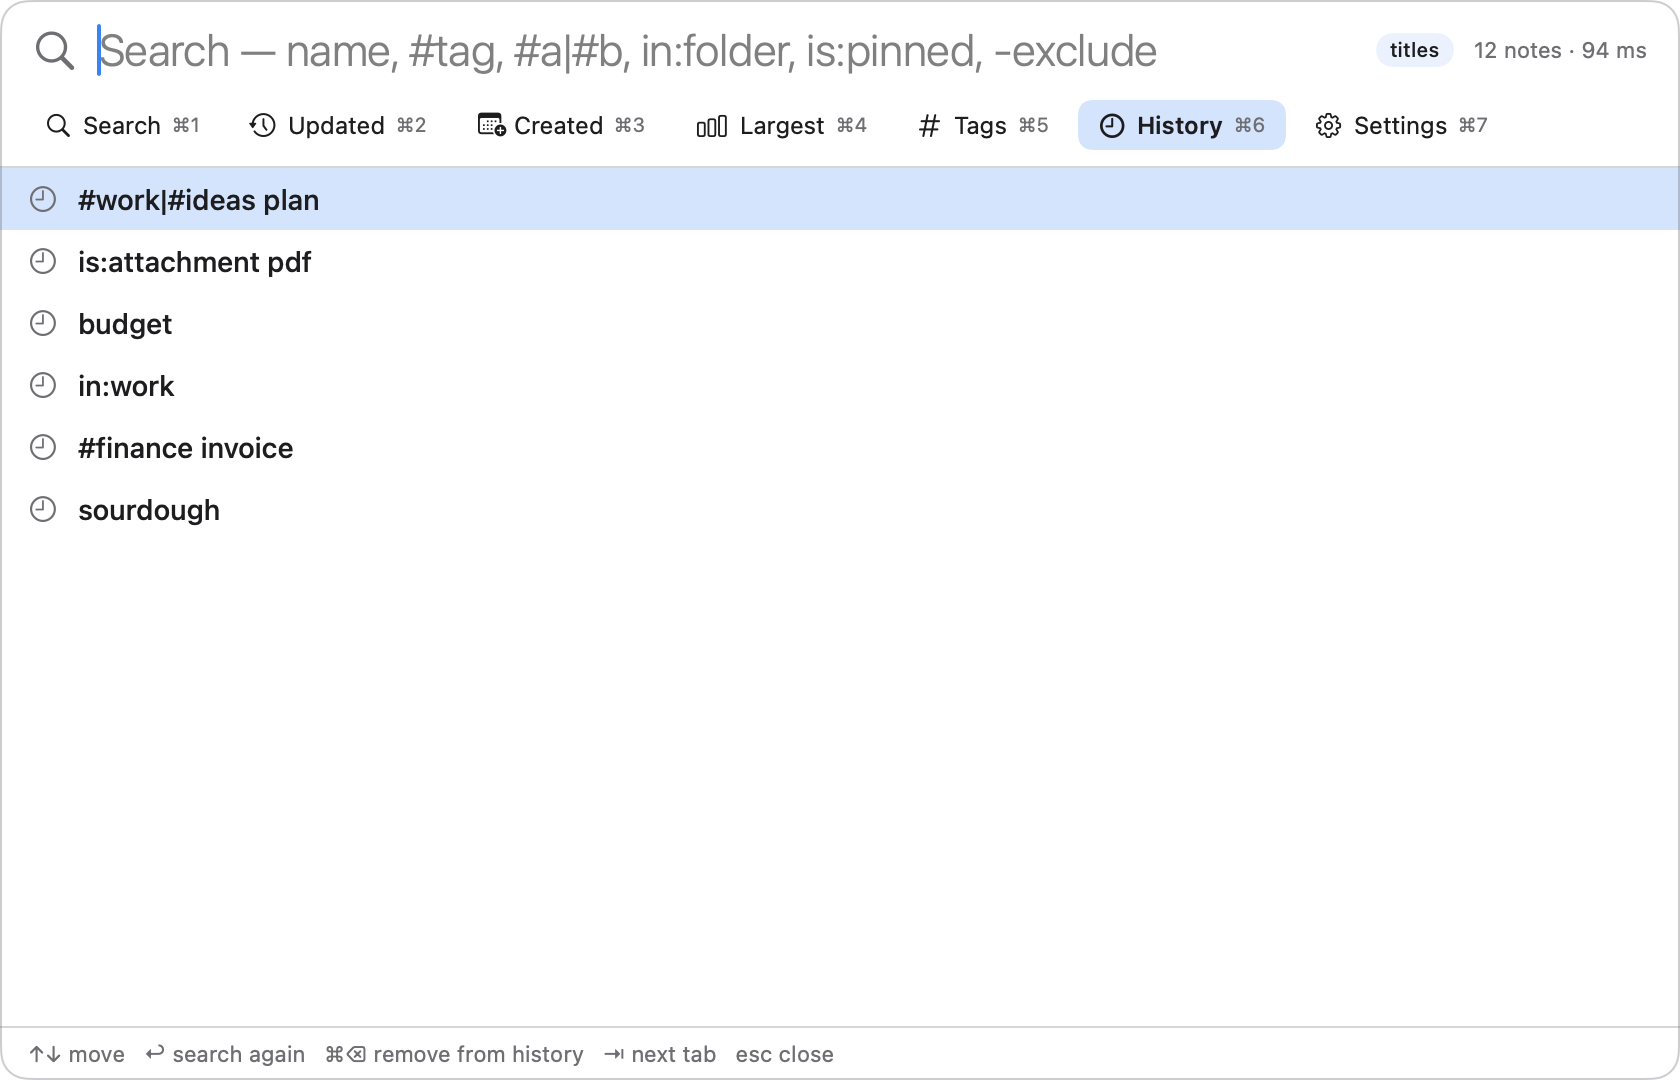
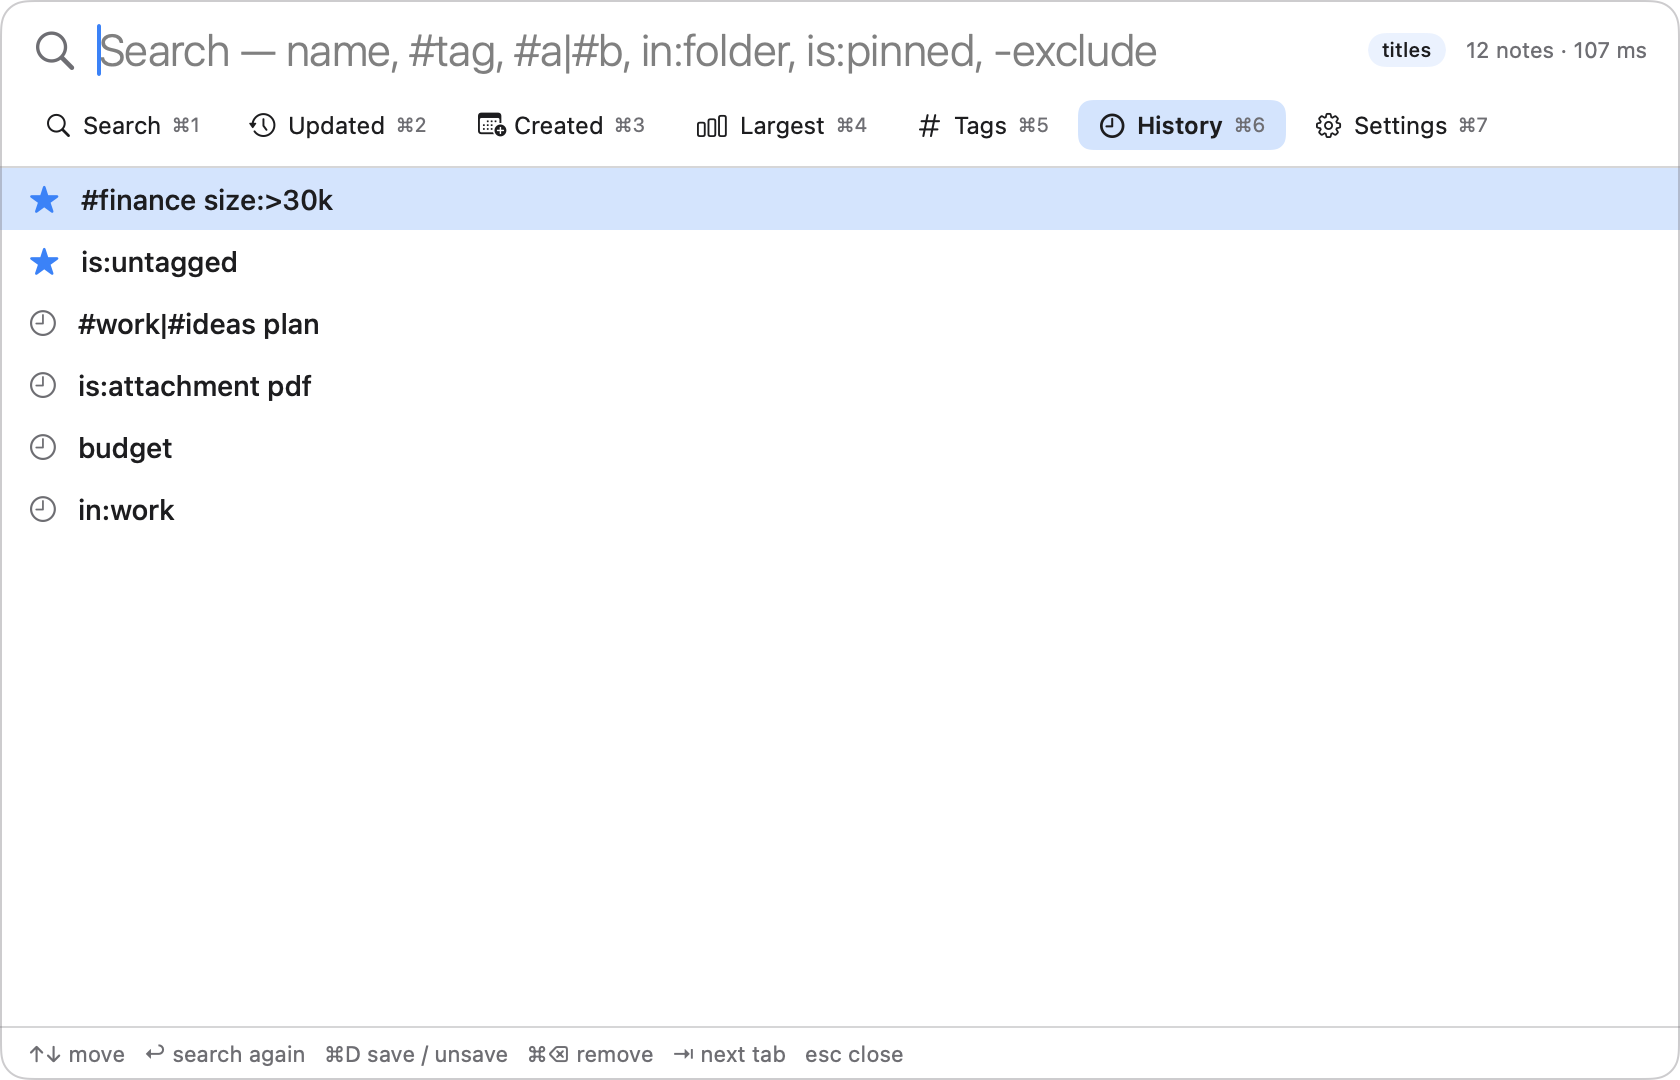
Document 1.7: saved searches, new filters, text size, copy actions, one-click update

diff --git a/docs/tabs-and-settings.md b/docs/tabs-and-settings.md
@@ -56,6 +56,10 @@ Your last 50 searches, newest first. A search is remembered when you open a note
 popup with it still typed. Press **Return** to run one again, **⌘⌫** to remove it. Type to filter the list.
 You can stop NoteSearch remembering searches, or clear them all, in Settings.
 
+From version 1.7, **⌘D** saves the highlighted search (and **⇧⌘D** saves the one you are typing on the Search
+tab). Saved searches show a star, stay at the top, and are kept when you clear the history. **⌘D** again unsaves
+one.
+
 ![Search history](images/history.png)
 
 ## Settings
@@ -65,10 +69,12 @@ You can stop NoteSearch remembering searches, or clear them all, in Settings.
 | Setting | What it does | Default |
 | --- | --- | --- |
 | **Color theme** | System (follows light/dark mode), Light, Dark, Notes Yellow, Solarized Light, Midnight, Nord, Dracula, Solarized Dark | System |
+| **Text size** | Small, Default, Large or Extra large, for the lists and tabs in the popup *(1.7+)* | Default |
 | **Global shortcut** | Click **Record**, then press the combination you want. It must include Control, Option or Command. Esc cancels. **Disable** turns the shortcut off | ⌃⌥N |
 | **Notes shown in Updated / Created / Largest** | How many notes those tabs list, from 5 to 500 | 50 |
 | **Search inside note text** | Also match plain words against the text of your notes. See [Privacy](privacy.md) *(1.3+)* | Off |
 | **Show the matching line for text matches** | While searching inside note text, shows the one line that matched under each result *(1.4+)* | Off |
+| **Added to every search** | Search terms applied to every list, for example `-in:archive` to hide a folder. See [Search syntax](search-syntax.md#hiding-a-folder-or-an-account-everywhere-17) *(1.7+)* | Empty |
 | **Close popup after opening a note** | Off keeps the popup open after Return | On |
 | **Hide popup when it loses focus** | Off keeps the popup visible when you click elsewhere | On |
 | **Launch at login** | Start NoteSearch when you log in | Off |
@@ -76,6 +82,13 @@ You can stop NoteSearch remembering searches, or clear them all, in Settings.
 | **Remember searches in the History tab** | Off stops new searches being remembered *(1.3+)* | On |
 | **Search history → Clear history** | Forgets all remembered searches *(1.3+)* | |
 | **Notes missing? → Copy diagnostics** | Copies a short report of counts about your Notes library to the clipboard, to paste into a bug report. It contains no note titles, folder names or account names *(1.2+)* | |
+
+**Popup size** *(1.7+)*: drag any edge of the popup to resize it. The size is remembered.
+
+**Updating** *(1.7+)*: when a newer version exists, a notice appears above the results. **Download and open** saves
+the new disk image to your Downloads folder and opens it; drag NoteSearch to Applications as usual.
+
+**VoiceOver** *(1.7+)*: results, tabs and the buttons at the top of the popup have spoken labels.
 
 If another app already uses the shortcut you recorded, a red message appears under the setting. Record a
 different one.

diff --git a/docs/search-syntax.md b/docs/search-syntax.md
@@ -16,6 +16,9 @@ ignored, so `cafe` finds "Café".
 | `is:checklist` | Notes that contain a checklist | |
 | `is:attachment` | Notes that have at least one attachment (`has:attachment` also works) *(1.1+)* | |
 | `is:favorite` | Notes you starred with **⌘D** (`is:fav` also works) *(1.4+)* | |
+| `is:untagged` | Notes with no hashtags *(1.7+)* | |
+| `is:shared` | Notes you share with other people, or that sit directly in a shared folder *(1.7+)* | |
+| `size:` | Notes whose text is at least, or smaller than, a size. Units `k` and `m` *(1.7+)* | `size:>100k`, `size:<2m` |
 | `updated:when` | Notes last changed in that period. See [Dates](#dates-14) *(1.4+)* | `updated:7d` |
 | `created:when` | Notes created in that period *(1.4+)* | `created:2026-03` |
 | `before:when` / `after:when` | Notes last changed before / after that period *(1.4+)* | `before:2026` |
@@ -65,6 +68,18 @@ is remembered.
 ![Results sorted by size](images/sort.png)
 
 *`plan`, sorted by largest.*
+
+## Saved searches *(1.7+)*
+
+Press **⇧⌘D** to save the search you are typing. Saved searches appear with a star at the top of the
+[History tab](tabs-and-settings.md#history-13) and are never pushed out by newer searches. On the History tab,
+**⌘D** saves or unsaves the highlighted entry and **Return** runs it.
+
+## Hiding a folder or an account everywhere *(1.7+)*
+
+In Settings, **Added to every search** takes ordinary search terms and applies them to every list. For example,
+`-in:archive` hides everything in a folder called "Archive", and `-account:work` hides a whole account. Clear the
+field to see everything again. Hashtag counts on the Tags tab are not affected.
 
 ## Favourites *(1.4+)*
 

diff --git a/docs/keyboard-shortcuts.md b/docs/keyboard-shortcuts.md
@@ -21,8 +21,11 @@
 | **⌘T** | Switch between matching titles only and titles plus note text *(1.3+)* |
 | **⌘S** | Change the sort order: best match, last updated, newest, largest *(1.4+)* |
 | **⌘D** | Star or unstar the selected note as a favourite *(1.4+)* |
+| **⇧⌘D** | Save the search you are typing. It appears starred at the top of the History tab *(1.7+)* |
 | **⌘N** | Create a new note in Notes, titled with whatever you have typed. macOS asks for permission the first time *(1.4+)* |
 | **⇧⌘C** | Copy a link to the selected note. Opening the link shows that note in Notes |
+| **⌥⌘C** | Copy the selected note's title *(1.7+)* |
+| **⌃⌘C** | Copy a Markdown link to the selected note, `[title](link)` *(1.7+)* |
 | **⌘R** | Reload notes |
 | **Esc** | Clear the search box. If it is already empty, close the popup |
 | **⌘W** | Close the popup |
@@ -44,6 +47,7 @@ The usual text shortcuts (⌘A, ⌘C, ⌘V, ⌘X, ⌘Z) work in the search box.
 | Shortcut | Action |
 | --- | --- |
 | **Return** | Run the highlighted search again |
+| **⌘D** | Save or unsave the highlighted search *(1.7+)* |
 | **⌘⌫** | Remove the highlighted search from the history |
 
 ## Menu-bar icon

diff --git a/docs/privacy.md b/docs/privacy.md
@@ -45,6 +45,9 @@ for this project's latest release and reads the version number from the reply. T
 you, your Mac or your notes. To stop it, turn off **Check for updates once a day** in Settings; NoteSearch then
 makes no network connections at all.
 
+From version 1.7, clicking **Download and open** on the update notice downloads the new version's disk image from
+this project's GitHub releases to your Downloads folder. This happens only when you click it.
+
 ## What it stores
 
 Only its own preferences, on your Mac:
@@ -53,6 +56,7 @@ Only its own preferences, on your Mac:
 - Identifiers of the last 30 notes you opened through NoteSearch, so they can be listed first. These are internal
   IDs, not titles or text.
 - Your last 50 searches, for the History tab *(1.3+)*. You can turn this off or clear it in Settings.
+- Your saved searches, and the terms in **Added to every search** *(1.7+)*.
 - Identifiers of the notes you starred as favourites *(1.4+)*. Internal IDs again, not titles or text.
 - The latest version number seen by the update check, and when it last ran *(1.4+)*.
 

diff --git a/README.md b/README.md
@@ -29,6 +29,8 @@ Step-by-step instructions with pictures are in [Getting started](docs/getting-st
 - **Search inside note text, if you want it**: off by default; one switch (or ⌘T) turns it on *(1.3+)*.
 - **Search history** and **multi-select hashtags** with live note counts *(1.3+)*.
 - **Date filters, sort order, favourites** and a **new-note shortcut** *(1.4+)*.
+- **Saved searches**, filters for size, untagged and shared notes, a text-size setting, a resizable popup and a
+  one-click update download *(1.7+)*.
 - **Private**: by default only titles and metadata are read. Note text is read only if you turn that on, is kept
   in memory only, and is never saved, and is shown only if you ask for the matching line. The only network use is an optional daily
   check for a newer version, which sends nothing about you or your notes.
